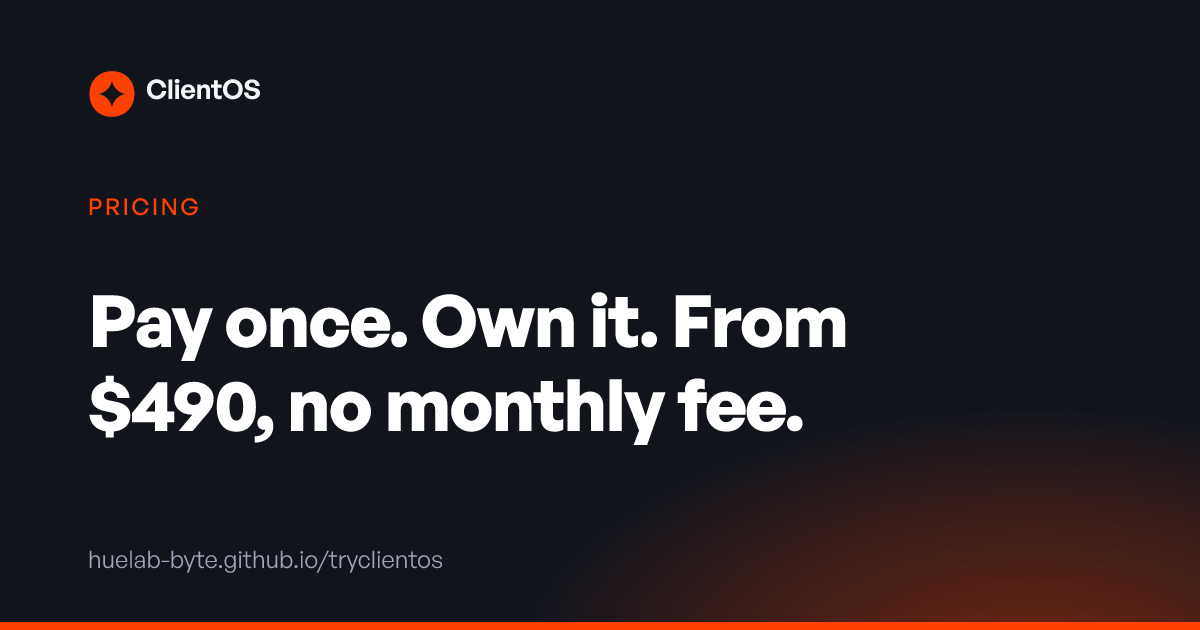
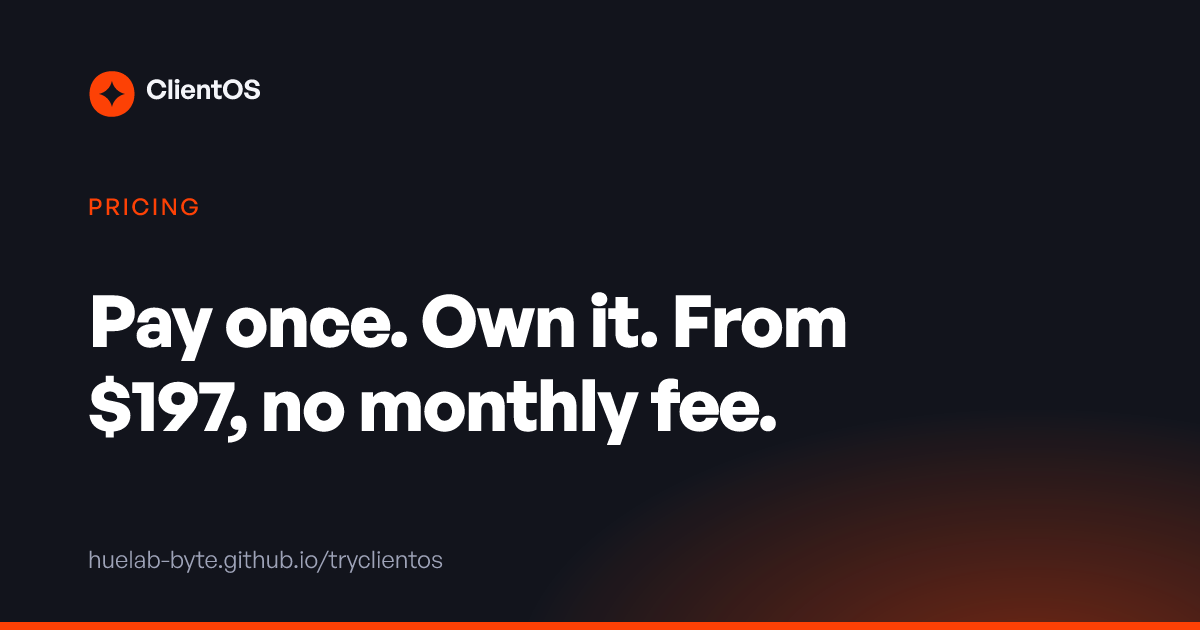
Update pricing to match getclientos.com
Starter $197, Standard $297, Premium $497 (was $490 / $990 / $1,790).
Rename Start-up to Starter, use the new ?package=startup checkout link,
mark Standard as Most Popular, date the pricing page 9 November 2026 and
regenerate the social cards.

Changed region(s): [[0.0925, 0.6032, 0.6783, 0.7238]]

diff --git a/src/content/alternatives.ts b/src/content/alternatives.ts
@@ -119,7 +119,7 @@ export const alternatives: Alternative[] = [
         dimension: 'What you pay',
         them: 'A monthly subscription: $99–$129/mo on Base, $249–$299/mo on Pro, plus $18–$20 per extra seat and $240–$300/mo if you need the API.',
         clientos:
-          'A one-time licence per domain: $490, $990 or $1,790, or quoted. Plus a server, which the site puts at about $10 a month.',
+          'A one-time licence per domain: $197, $297 or $497, or quoted. Plus a server, which the site puts at about $10 a month.',
       },
       {
         dimension: 'Where client data lives',
@@ -186,9 +186,9 @@ export const alternatives: Alternative[] = [
         'The only honest way to compare a subscription with a one-time licence is over time. Wayfront’s own yearly Pro price against the ClientOS Premium licence, server excluded on both sides:',
       theirLabel: 'Wayfront Pro, billed yearly, 10 seats',
       theirYearly: 2988,
-      ours: { label: 'ClientOS Premium, one-time', price: 1790 },
+      ours: { label: 'ClientOS Premium, one-time', price: 497 },
       footnote:
-        'Wayfront Pro at its yearly rate of $249/mo = $2,988 a year for the 10 seats included, with no extra seats and no API add-on; list prices read from wayfront.com/pricing on 29 October 2026. ClientOS Premium is $1,790 once and includes 2 years of updates; after those, it keeps running on the version you hold. Neither column includes your own server (about $10 a month) or your payment-gateway fees, which you pay either way. ClientOS publishes a case study making a near-identical calculation for one agency; the figures above are recomputed here from both vendors’ own list prices.',
+        'Wayfront Pro at its yearly rate of $249/mo = $2,988 a year for the 10 seats included, with no extra seats and no API add-on; list prices read from wayfront.com/pricing on 29 October 2026. ClientOS Premium is $497 once and includes 2 years of updates; after those, it keeps running on the version you hold. Neither column includes your own server (about $10 a month) or your payment-gateway fees, which you pay either way. ClientOS publishes a case study making a near-identical calculation for one agency; the figures above are recomputed here from both vendors’ own list prices.',
     },
     keywords:
       'wayfront alternative, service provider pro alternative, spp alternative, spp.co alternative, self hosted wayfront alternative',
@@ -213,7 +213,7 @@ export const alternatives: Alternative[] = [
       'Zendo and ClientOS both sell the same promise: a storefront for your services, a place for the client to order and talk to you, and quotes and invoices at the end of it. Zendo starts free and is hosted for you; ClientOS is a one-time licence you install on your own server. The sharpest practical differences are per-user pricing and what each one does about payments.',
     stayWithThem: [
       'You are starting out and want to spend nothing. Zendo’s Essential plan is free for 3 clients and 1 published service; ClientOS has no free tier.',
-      'You are one person. Zendo’s plans include one internal user, which is cheap for a solo operator; ClientOS prices per domain, not per seat, so it is poor value for one person and good value for a team.',
+      'You are one person. Zendo’s plans include one internal user, which is cheap for a solo operator; ClientOS prices per domain, not per seat, so the advantage grows with every person you add.',
       'You need the interface in Danish, Dutch, Finnish, French, German, Italian, Norwegian, Polish, Portuguese, Spanish or Swedish. Zendo lists twelve interface languages; ClientOS states English only.',
       'You want Zapier, Rewardful or embedded third-party apps, which Zendo lists from its Pro plan.',
       'You would rather not run a server at all.',
@@ -255,7 +255,7 @@ export const alternatives: Alternative[] = [
         dimension: 'What you pay',
         them: 'Free, or $25–$79/mo yearly ($29–$99 monthly), each plan including one internal user, with extra users at $8, $12.50 or $17 a month.',
         clientos:
-          'A one-time licence per domain: $490, $990 or $1,790, or quoted — with unlimited staff. Plus a server, about $10 a month.',
+          'A one-time licence per domain: $197, $297 or $497, or quoted — with unlimited staff. Plus a server, about $10 a month.',
       },
       {
         dimension: 'Where client data lives',
@@ -314,9 +314,9 @@ export const alternatives: Alternative[] = [
         'Zendo’s per-seat pricing is what decides this one. A five-person team on Zendo’s Pro plan — one user included, four extra at $12.50 — against the ClientOS Standard licence:',
       theirLabel: 'Zendo Pro, yearly rate, 5 internal users',
       theirYearly: 1188,
-      ours: { label: 'ClientOS Standard, one-time', price: 990 },
+      ours: { label: 'ClientOS Standard, one-time', price: 297 },
       footnote:
-        'Zendo Pro at its yearly rate of $49/mo, plus four extra internal users at $12.50/mo each = $99/mo = $1,188 a year; list prices read from getzendo.io/pricing on 29 October 2026. ClientOS Standard is $990 once and includes 12 months of updates and unlimited staff; after those, it keeps running on the version you hold. Neither column includes your own server (about $10 a month). A solo operator reverses this comparison: Zendo Pro alone is $588 a year, and its Essential plan is free.',
+        'Zendo Pro at its yearly rate of $49/mo, plus four extra internal users at $12.50/mo each = $99/mo = $1,188 a year; list prices read from getzendo.io/pricing on 29 October 2026. ClientOS Standard is $297 once and includes 12 months of updates and unlimited staff; after those, it keeps running on the version you hold. Neither column includes your own server (about $10 a month). For a solo operator the gap narrows: Zendo Pro alone is $588 a year, and its Essential plan is free.',
     },
     keywords: 'zendo alternative, zendo alternatives, getzendo alternative, self hosted zendo alternative',
   },
@@ -356,7 +356,7 @@ export const alternatives: Alternative[] = [
         dimension: 'The model',
         them: 'Hosted SaaS: the vendor runs the servers and bills you monthly or annually.',
         clientos:
-          'A one-time licence per domain, installed on a Linux VPS you rent. $490, $990 or $1,790, or quoted, plus a server at about $10 a month.',
+          'A one-time licence per domain, installed on a Linux VPS you rent. $197, $297 or $497, or quoted, plus a server at about $10 a month.',
       },
       {
         dimension: 'Where client data lives',

diff --git a/src/content/faq.ts b/src/content/faq.ts
@@ -21,7 +21,7 @@ export const faq: FaqItem[] = [
   },
   {
     q: 'How much does ClientOS cost?',
-    a: 'It is a one-time licence, one per domain: Start-up $490 with 3 months of updates, Standard $990 with 12 months, Premium $1,790 with 2 years and two agency licences, and a quoted Custom package with lifetime updates. There is no monthly fee, no per-seat pricing and no cut of your payments. Your only running cost is the server, which the site puts at about $10 a month.',
+    a: 'It is a one-time licence, one per domain: Starter $197 with 3 months of updates, Standard $297 with 12 months, Premium $497 with 2 years and two agency licences, and a quoted Custom package with lifetime updates. There is no monthly fee, no per-seat pricing and no cut of your payments. Your only running cost is the server, which the site puts at about $10 a month.',
     source: 'getclientos.com #pricing',
   },
   {
@@ -46,7 +46,7 @@ export const faq: FaqItem[] = [
   },
   {
     q: 'Can I move over from my current client portal?',
-    a: 'On Start-up and Standard you bring your clients in yourself from a CSV file, with column mapping. On Premium and Custom the ClientOS team moves your data for you, or builds a migration tool for it. Their published Dot Mirror case study describes a Wayfront importer bringing over clients, orders, messages, invoices and files.',
+    a: 'On Starter and Standard you bring your clients in yourself from a CSV file, with column mapping. On Premium and Custom the ClientOS team moves your data for you, or builds a migration tool for it. Their published Dot Mirror case study describes a Wayfront importer bringing over clients, orders, messages, invoices and files.',
     source: 'getclientos.com FAQ and the Dot Mirror case study',
   },
   {
@@ -76,7 +76,7 @@ export const faq: FaqItem[] = [
   },
   {
     q: 'How many clients and staff can I have?',
-    a: 'Every package states unlimited clients, staff and orders. The licence is counted per domain, not per seat: Start-up and Standard cover one agency, Premium covers two, and each extra install is its own licence.',
+    a: 'Every package states unlimited clients, staff and orders. The licence is counted per domain, not per seat: Starter and Standard cover one agency, Premium covers two, and each extra install is its own licence.',
     source: 'getclientos.com #pricing',
   },
   {

diff --git a/src/content/site.ts b/src/content/site.ts
@@ -10,6 +10,10 @@
 export const AUDIT_DATE = '29 October 2026';
 export const AUDIT_DATE_ISO = '2026-10-29';
 
+/** When the package prices below were last re-read off getclientos.com. */
+export const PRICING_DATE = '9 November 2026';
+export const PRICING_DATE_ISO = '2026-11-09';
+
 export const site = {
   name: 'Self-Hosted Client Portals',
   repo: 'https://github.com/huelab-byte/tryclientos',
@@ -48,8 +52,8 @@ export function officialUrl(utmContent: string, path = ''): string {
 }
 
 // ---------------------------------------------------------------------------
-// Pricing — getclientos.com/#pricing, cross-checked against the homepage
-// JSON-LD `offers` (490 / 990 / 1790 USD).
+// Pricing — getclientos.com/#pricing and getclientos.com/pricing, re-checked
+// 9 November 2026 (Starter $197 / Standard $297 / Premium $497 USD).
 // ---------------------------------------------------------------------------
 
 export type Package = {
@@ -74,9 +78,9 @@ const BUY = 'https://app.vibemonk.com/services/clientos?package=';
 
 export const packages: Package[] = [
   {
-    name: 'Start-up',
-    price: '$490',
-    priceNumber: 490,
+    name: 'Starter',
+    price: '$197',
+    priceNumber: 197,
     period: 'one-time',
     updates: '3 months of updates',
     support: 'Standard support',
@@ -84,12 +88,12 @@ export const packages: Package[] = [
     install: 'You install it yourself — one command.',
     migration: 'CSV import, so you move your own data in',
     highlight: false,
-    buyUrl: `${BUY}start-up`,
+    buyUrl: `${BUY}startup`,
   },
   {
     name: 'Standard',
-    price: '$990',
-    priceNumber: 990,
+    price: '$297',
+    priceNumber: 297,
     period: 'one-time',
     updates: '12 months of updates',
     support: 'Priority support',
@@ -97,13 +101,13 @@ export const packages: Package[] = [
     install: 'You install it yourself — one command.',
     migration: 'CSV import, so you move your own data in',
     highlight: true,
-    note: 'Most chosen',
+    note: 'Most Popular',
     buyUrl: `${BUY}standard`,
   },
   {
     name: 'Premium',
-    price: '$1,790',
-    priceNumber: 1790,
+    price: '$497',
+    priceNumber: 497,
     period: 'one-time',
     updates: '2 years of updates',
     support: 'Priority support',

diff --git a/README.md b/README.md
@@ -17,7 +17,7 @@ One-time license. No monthly fee, no per-seat pricing, no cut of your payments.<
 
 <p>
   <img src="https://img.shields.io/badge/self--hosted-your_server-fd4105?style=flat-square" alt="Self-hosted">
-  <img src="https://img.shields.io/badge/license-one--time_from_%24490-fd4105?style=flat-square" alt="One-time license from $490">
+  <img src="https://img.shields.io/badge/license-one--time_from_%24197-fd4105?style=flat-square" alt="One-time license from $197">
   <img src="https://img.shields.io/badge/white--label-100%25-12141c?style=flat-square" alt="100% white-label">
   <img src="https://img.shields.io/badge/clients_%26_staff-unlimited-12141c?style=flat-square" alt="Unlimited clients and staff">
   <img src="https://img.shields.io/badge/runs_on-Ubuntu_%7C_Debian-12141c?style=flat-square&logo=ubuntu&logoColor=white" alt="Runs on Ubuntu or Debian">
@@ -410,15 +410,15 @@ sudo clientos backup     # database, files and settings into one folder
 
 <table>
 <tr>
-<th align="center" width="25%">Start-up</th>
-<th align="center" width="25%">Standard<br><sub>⭐ most chosen</sub></th>
+<th align="center" width="25%">Starter</th>
+<th align="center" width="25%">Standard<br><sub>⭐ most popular</sub></th>
 <th align="center" width="25%">Premium</th>
 <th align="center" width="25%">Custom</th>
 </tr>
 <tr>
-<td align="center"><h2>$490</h2><sub>one-time</sub></td>
-<td align="center"><h2>$990</h2><sub>one-time</sub></td>
-<td align="center"><h2>$1,790</h2><sub>one-time</sub></td>
+<td align="center"><h2>$197</h2><sub>one-time</sub></td>
+<td align="center"><h2>$297</h2><sub>one-time</sub></td>
+<td align="center"><h2>$497</h2><sub>one-time</sub></td>
 <td align="center"><h2>Quoted</h2><sub>contact us</sub></td>
 </tr>
 <tr>
@@ -452,7 +452,7 @@ sudo clientos backup     # database, files and settings into one folder
 <td>Custom features and integrations</td>
 </tr>
 <tr>
-<td align="center"><a href="https://app.vibemonk.com/services/clientos?package=start-up"><img src="https://img.shields.io/badge/Buy_Start--up-12141c?style=for-the-badge" alt="Buy Start--up"></a></td>
+<td align="center"><a href="https://app.vibemonk.com/services/clientos?package=startup"><img src="https://img.shields.io/badge/Buy_Starter-12141c?style=for-the-badge" alt="Buy Starter"></a></td>
 <td align="center"><a href="https://app.vibemonk.com/services/clientos?package=standard"><img src="https://img.shields.io/badge/Buy_Standard-fd4105?style=for-the-badge" alt="Buy Standard"></a></td>
 <td align="center"><a href="https://app.vibemonk.com/services/clientos?package=premium"><img src="https://img.shields.io/badge/Buy_Premium-12141c?style=for-the-badge" alt="Buy Premium"></a></td>
 <td align="center"><a href="https://getclientos.com/contact?utm_source=github&utm_medium=referral&utm_campaign=clientos_launch&utm_content=readme_pricing_custom"><img src="https://img.shields.io/badge/Ask_for_a_quote-12141c?style=for-the-badge" alt="Ask for a quote"></a></td>
@@ -474,7 +474,7 @@ prices below are from each vendor's own pricing page, checked on **29 October 20
 
 | | **ClientOS** | Wayfront (formerly SPP) | Zendo |
 |:--|:--|:--|:--|
-| **How you pay** | Once: [$490](https://app.vibemonk.com/services/clientos?package=start-up) / [$990](https://app.vibemonk.com/services/clientos?package=standard) / [$1,790](https://app.vibemonk.com/services/clientos?package=premium) | $99–$129/mo (Base) · $249–$299/mo (Pro) | $25–$29/mo (Core) · $79–$99/mo (Agency) |
+| **How you pay** | Once: [$197](https://app.vibemonk.com/services/clientos?package=startup) / [$297](https://app.vibemonk.com/services/clientos?package=standard) / [$497](https://app.vibemonk.com/services/clientos?package=premium) | $99–$129/mo (Base) · $249–$299/mo (Pro) | $25–$29/mo (Core) · $79–$99/mo (Agency) |
 | **Seats** | Unlimited staff | 5 on Base, 10 on Pro, then $18–$20 per seat a month | 1 included, then $8–$17 per user a month |
 | **Where your client data lives** | Your own server | The vendor's servers | The vendor's servers |
 | **Crypto payments** | NOWPayments, CoinGate, BTCPay, manual wallets | Not listed | Not listed (Stripe and bank transfer) |
@@ -566,7 +566,7 @@ Lifetime updates come with the Custom package.
 <details>
 <summary><b>Can I move over from my current client portal?</b></summary>
 
-On Start-up and Standard you bring your clients in yourself from a CSV file, with column mapping. On
+On Starter and Standard you bring your clients in yourself from a CSV file, with column mapping. On
 Premium and Custom the ClientOS team moves your data for you, or builds a migration tool for it.
 </details>
 
